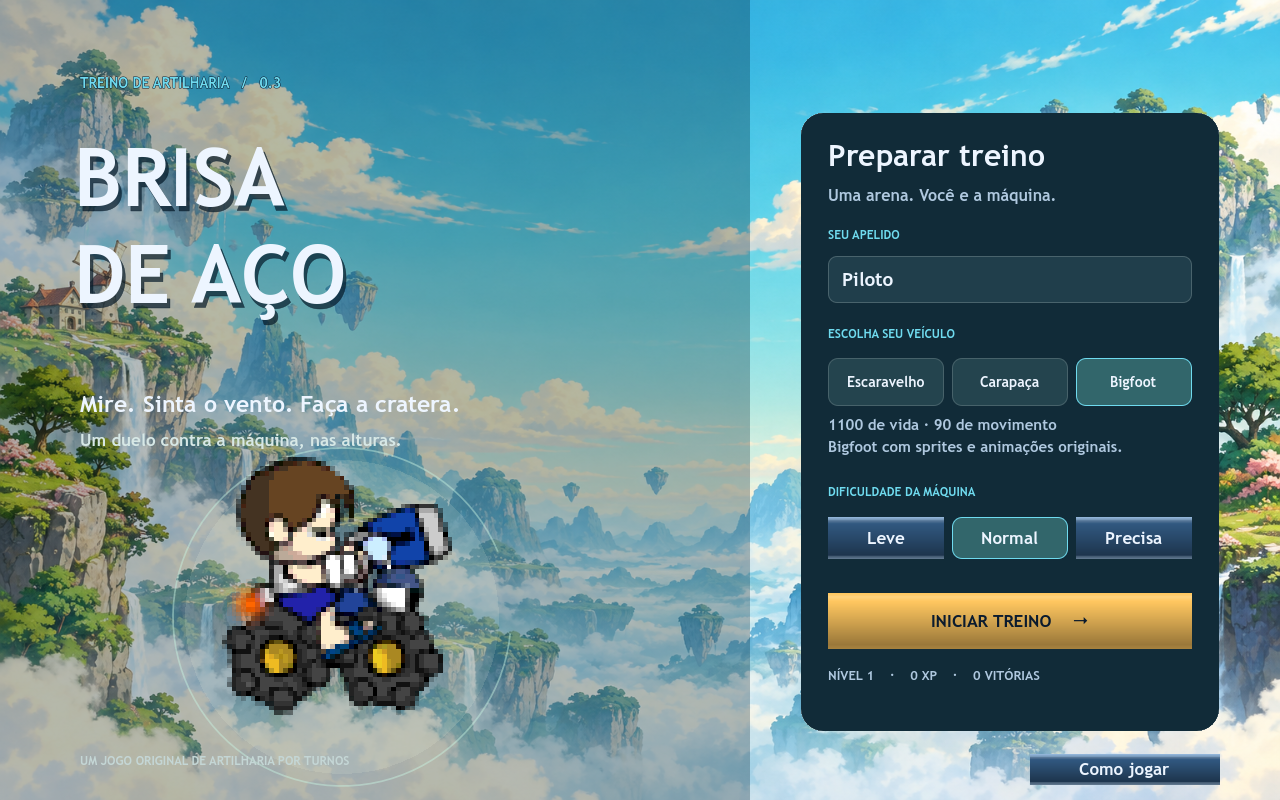
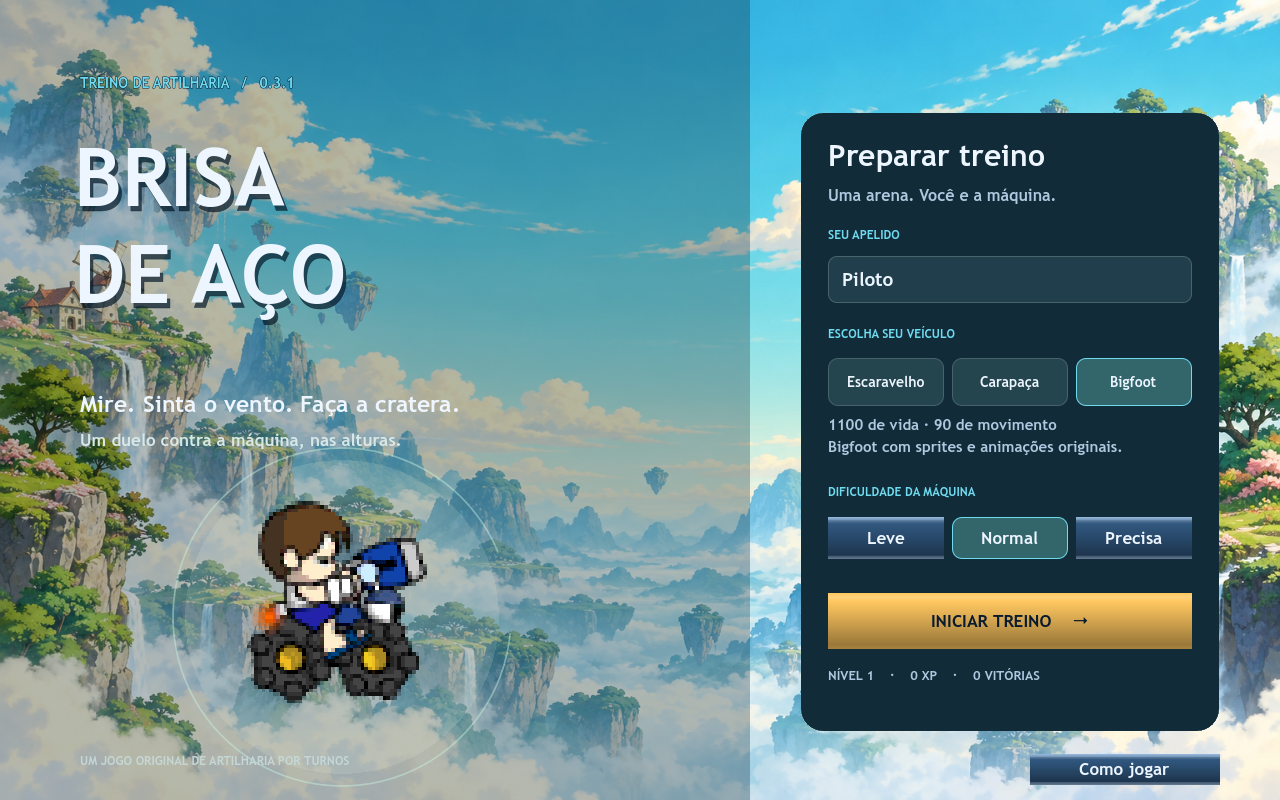
fix: reduz escala do Bigfoot na versao 0.3.1

Changed region(s): [[0.1562, 0.5625, 0.375, 0.9062]]

diff --git a/docs/progress.md b/docs/progress.md
@@ -25,3 +25,5 @@ Original-assets intake (2026-10-11): User supplied Google Drive folder 120agUFRk
 
 Bigfoot visual 0.3: user specifically requested Bigfoot with received sprites. Plan/spec saved before code in docs/sdd/BIGFOOT_0_3.md. Ruling: bounded visual integration first; preserve prototype weapon rules, explicitly defer official 4/6/8 salvos/resistances/ballistics and remaining mobiles. Added selectable/default third vehicle (1100 HP, 90 movement), original atlas and six unmodified PNGs, rider offset JSON, original frame ranges/FPS and projectile art. Atlas/pilot use nearest CanvasTexture; model still owns all physics/collision. Original images verified by SHA256; notices/provenance shipped.
 Bigfoot TDD: missing selection/atlas RED → GREEN; added original pilot alignment RED → GREEN. Corrected GDScript explicit type for menu description and CanvasItem enum for CanvasTexture; rejected compiler-error logs rather than trusting --quit-after exit status. Fresh reviewer found SS recoil switching to S1 on short turns: failed regression then fixed using recorded last_shots weapon. Another failed regression fixed charge pose clock on weapon change. Final 130 checks passed (40+28 models, 13+21 scene, 28 Bigfoot); eight complete matches passed, with Bigfoot seeds87/88 finishing 34/9 shots. Five GPU screenshots inspected; menu scaled to avoid text overlap. JSON included explicitly in preset; GPL/attribution notices copied into app. Final Universal 0.3.0 build signature verified and standalone headless startup returned 0 without errors. Previous session-created app process replaced with final 0.3 app. No full manual mouse acceptance or full Gunbound gameplay parity claimed.
+
+Visual patch 0.3.1: user asked to reduce the car and version it. REQ-19 presentation adjustment: Bigfoot/pilot arena width 80→60 (25% smaller), menu 230→180. Original files and physics/profile unchanged. No new implementation-mirroring tests for this reversible size change. Existing 28 Bigfoot checks passed; five fresh GPU captures inspected. App/ZIP 0.3.1 Universal reexported, native signature valid, standalone headless startup 0 with clean log. Replaced only session-created prior app with updated app. Commit and local tag v0.3.1 record the patch; no push/remote publication.

diff --git a/docs/sdd/HANDOFF.md b/docs/sdd/HANDOFF.md
@@ -1,6 +1,17 @@
-# Hand-off — Brisa de Aço 0.3.0
+# Hand-off — Brisa de Aço 0.3.1
 
-## Entrega atual: Bigfoot com sprites originais
+## Ajuste atual 0.3.1: Bigfoot menor
+
+Pedido do usuário: diminuir o carro e realizar versionamento. Bigfoot e piloto
+reduzidos juntos de 80 para 60 unidades visuais na arena (25%) e de 230 para 180
+na prévia do menu. Não houve alteração de PNG, regras, colisão ou perfil.
+Capturas `docs/bigfoot-*.png` atualizadas. Passaram os 28 checks Bigfoot existentes;
+novos testes de constantes de estilo não foram necessários. Aplicativo/ZIP 0.3.1
+reexportados; assinatura e execução independente verificadas. Commit local da
+mudança; nenhum remoto/push. Os 130 checks e oito partidas abaixo são evidência
+da integração 0.3.0 anterior, não uma nova execução integral neste ajuste visual.
+
+## Integração 0.3.0: Bigfoot com sprites originais
 
 Bigfoot foi integrado como terceira opção, selecionada inicialmente no menu.
 Atlas, piloto padrão masculino, offsets por quadro e projéteis são os originais

diff --git a/docs/sdd/BIGFOOT_0_3.md b/docs/sdd/BIGFOOT_0_3.md
@@ -7,6 +7,16 @@ REQ-19 é atendido nesta etapa para Bigfoot; os demais mobiles permanecem penden
 Status: integração visual implementada, verificada e exportada em 0.3.0.
 Não inclui equivalência integral de ataques. Aceitação pelo usuário pendente.
 
+## Ajuste visual 0.3.1 — tamanho menor
+
+Pedido posterior do usuário: diminuir o carro e versionar. Recorte de REQ-19:
+reduzir Bigfoot/piloto juntos de 80 para 60 unidades visuais na arena (25%) e de
+230 para 180 na prévia do menu. Preservar os PNGs originais, contato com o solo,
+offsets e animações. É ajuste de escala da apresentação, sem mudar o modelo.
+Plano: alterar os dois pontos de desenho, capturar os cinco estados, executar
+os checks Bigfoot existentes, reexportar 0.3.1, verificar assinatura/launch e
+registrar commit local com hand-off/capturas atualizados.
+
 ## Entrega planejada
 
 - Terceira opção selecionável no menu: Bigfoot, inicialmente selecionado para

diff --git a/README.md b/README.md
@@ -1,6 +1,6 @@
 # Brisa de Aço
 
-Protótipo original de artilharia 2D por turnos, inspirado na experiência de Gunbound. Versão **0.3.0**: treino **1×1 contra o computador no macOS**, feito em **Godot 4.7.2 + GDScript**, com painel clássico, mira em encostas e Bigfoot com sprites originais.
+Protótipo original de artilharia 2D por turnos, inspirado na experiência de Gunbound. Versão **0.3.1**: treino **1×1 contra o computador no macOS**, feito em **Godot 4.7.2 + GDScript**, com painel clássico, mira em encostas e Bigfoot com sprites originais.
 
 ## Jogar
 

diff --git a/docs/sdd/TASKS.md b/docs/sdd/TASKS.md
@@ -15,6 +15,12 @@
 O plano original permanece em `docs/superpowers/plans/2026-10-11-prototype.md`.
 Os estados acima distinguem implementação entregue de aceitação pelo usuário.
 
+## Ajuste visual concluído 0.3.1
+
+- [x] Reduzir Bigfoot/piloto na arena (80→60) e no menu (230→180).
+- [x] Inspecionar novas capturas e repetir 28 checks Bigfoot.
+- [x] Reexportar/validar aplicativo e registrar commit local com SDD atualizado.
+
 ## Pendência atual
 
 - [x] Receber, extrair e verificar o pacote externo: `.tools/source-assets/content/`,

diff --git a/docs/sdd/DECISIONS.md b/docs/sdd/DECISIONS.md
@@ -39,3 +39,9 @@ imutáveis: registrar substituição e motivo se uma solicitação futura as alt
 
 Esses ajustes têm regressões nos testes. A revisão foi da implementação inicial;
 não representa uma nova revisão independente desta documentação.
+
+## Ajuste visual 0.3.1
+
+ADR-022 — adotada: reduzir Bigfoot/piloto juntos, mantendo os pixels originais,
+contato com chão e offsets relativos. Escala de arena 60 (antes 80), menu 180
+(antes 230). Ajuste de apresentação em REQ-19; regras de colisão/combate preservadas.

diff --git a/docs/sdd/README.md b/docs/sdd/README.md
@@ -27,5 +27,5 @@ da execução inicial. O conjunto `docs/sdd/` consolida o contexto atual.
 O [README principal](../../README.md), o [guia de aprendizado](../APRENDIZADO.md),
 o [roteiro funcional](../VALIDACAO.md) e a [origem da arte](../ART.md) o complementam.
 
-Baseline inicial: **0.1.0**; versão atual **0.3.0**, em **2026-10-11**. O histórico Git
+Baseline inicial: **0.1.0**; versão atual **0.3.1**, em **2026-10-11**. O histórico Git
 identifica as revisões; não manter hashes de commits dentro destes documentos.

diff --git a/AGENTS.md b/AGENTS.md
@@ -6,7 +6,7 @@ Converse com o usuário em português.
 
 ## Estado e escopo
 
-Protótipo 0.3.0 em Godot 4.7.2 + GDScript. Escopo:
+Protótipo 0.3.1 em Godot 4.7.2 + GDScript. Escopo:
 desktop macOS, treino offline 1×1 contra CPU, arte do protótipo + Bigfoot original
 e progresso local.
 Ranking foi explicitamente retirado. Rede, contas, multiplayer e mobile estão

diff --git a/docs/sdd/SPEC.md b/docs/sdd/SPEC.md
@@ -1,4 +1,4 @@
-# Especificação — protótipo 0.3.0
+# Especificação — protótipo 0.3.1
 
 Status: implementado; validação funcional pelo usuário pendente de relato.
 Data: 2026-10-11. Esta especificação consolida as escolhas da conversa e o
